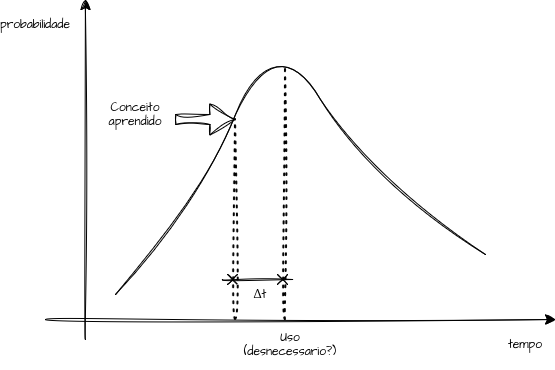
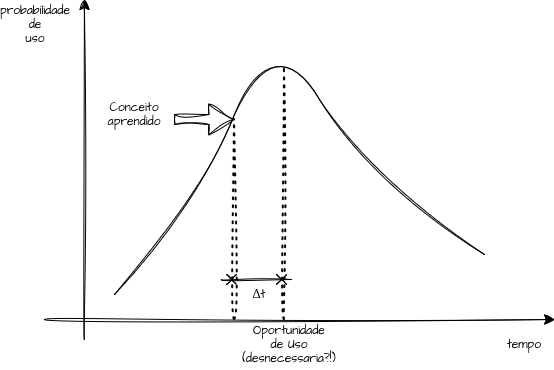
feat(article): rename article and replace image

diff --git a/content/blog/complexidade-desnecessaria/index.md b/content/blog/complexidade-desnecessaria/index.md
@@ -1,5 +1,5 @@
 ---
-title: "Complexidade Desnecessária"
+title: "Evitando Complexidade Desnecessária"
 date: "2026-06-02"
 description: "Reflexões de como identificar complexidade em desenho de software"
 featuredImage: feature.png